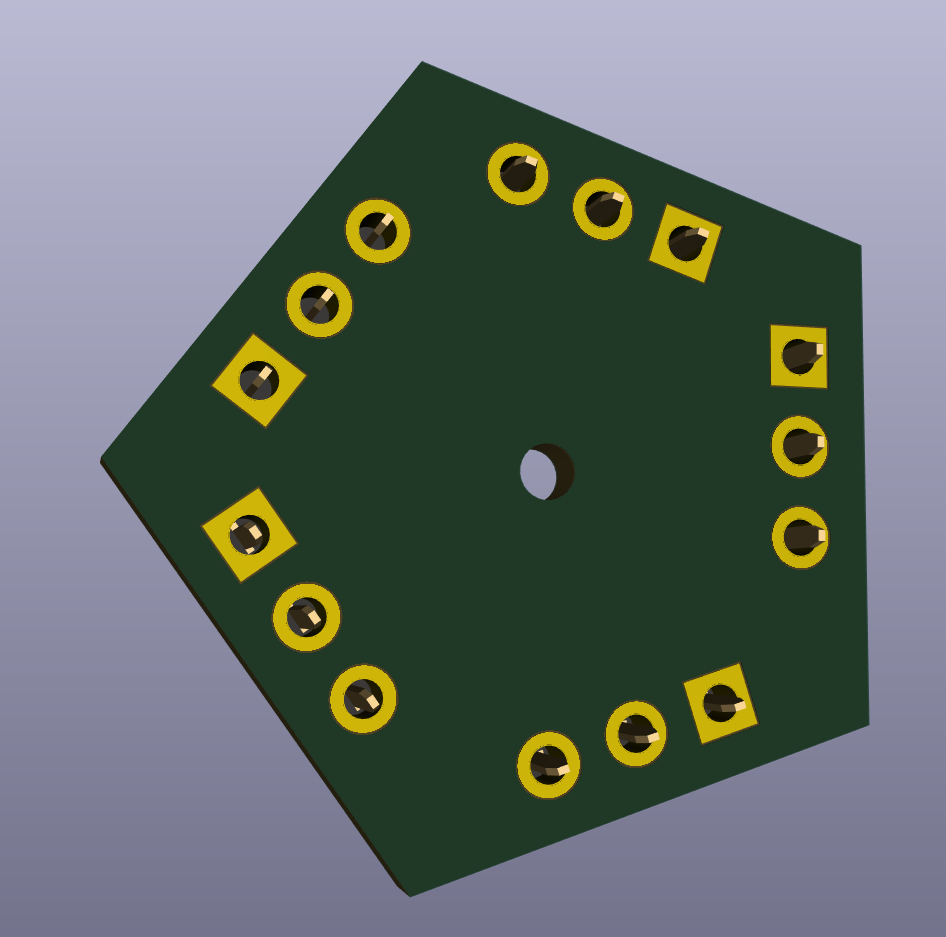
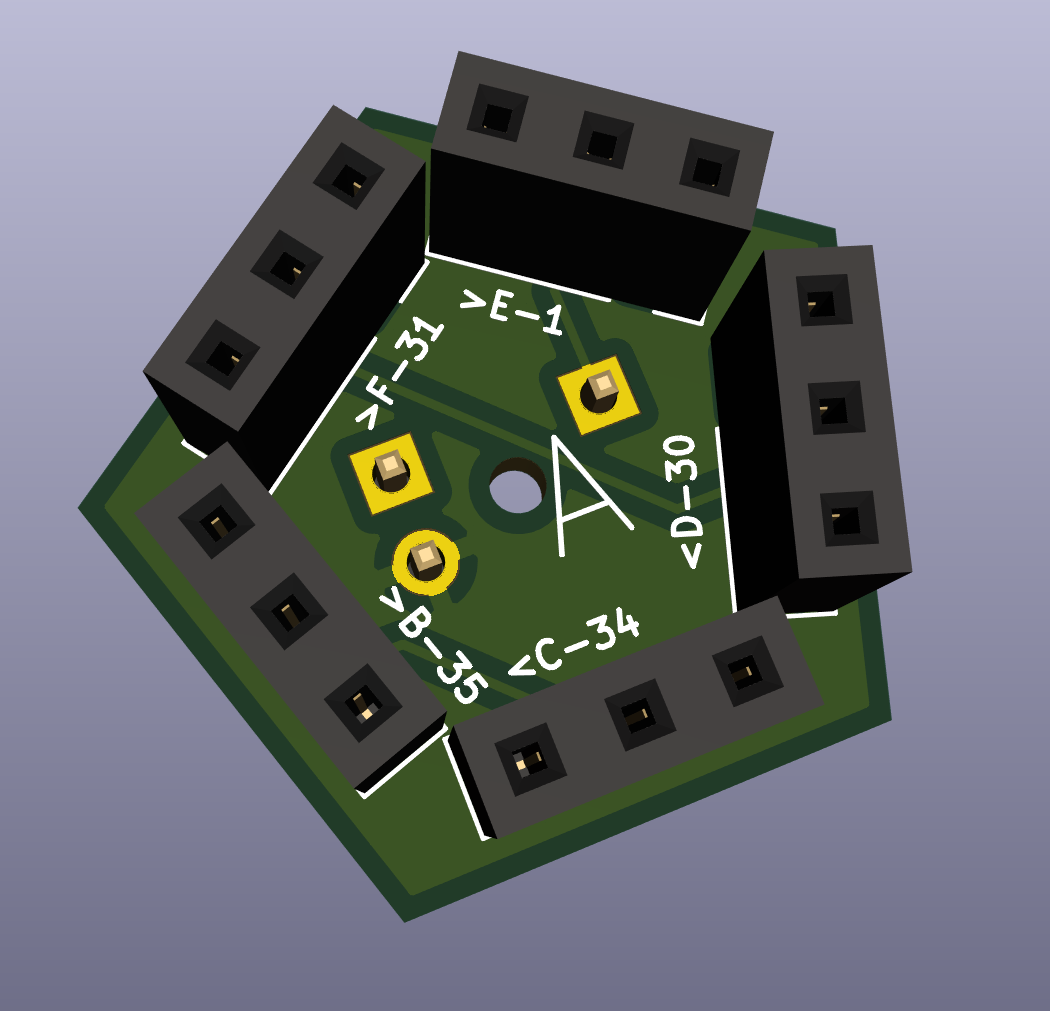
Add the screenshot to the readme

diff --git a/Readme.md b/Readme.md
@@ -1,1 +1,6 @@
-# Ikosaeder PCB
+# [Ikosaeder PCB][1]
+
+![Screenshot][]
+
+[1]: https://github.com/besi/ikosaeder-pcb
+[screenshot]: https://github.com/besi/ikosaeder-pcb/raw/master/screenshot.png
